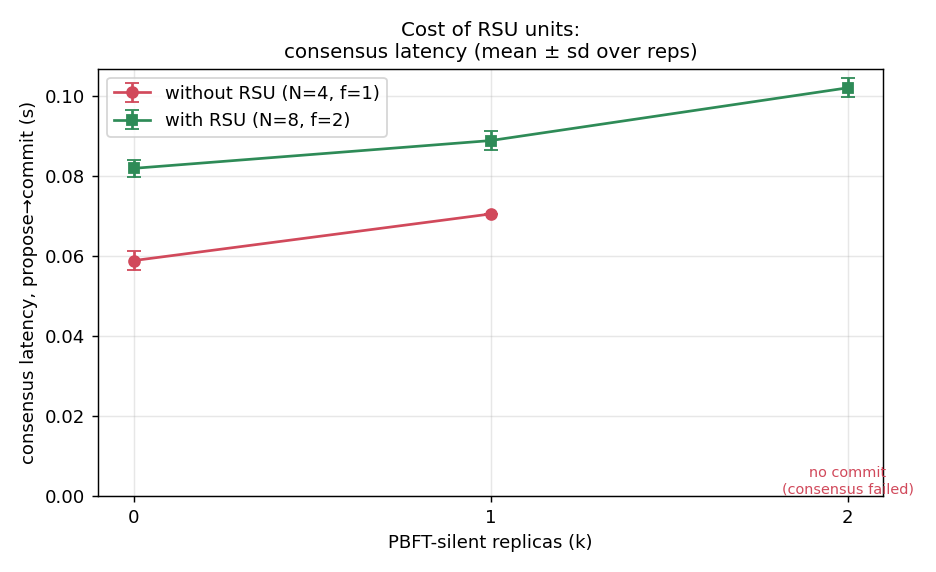
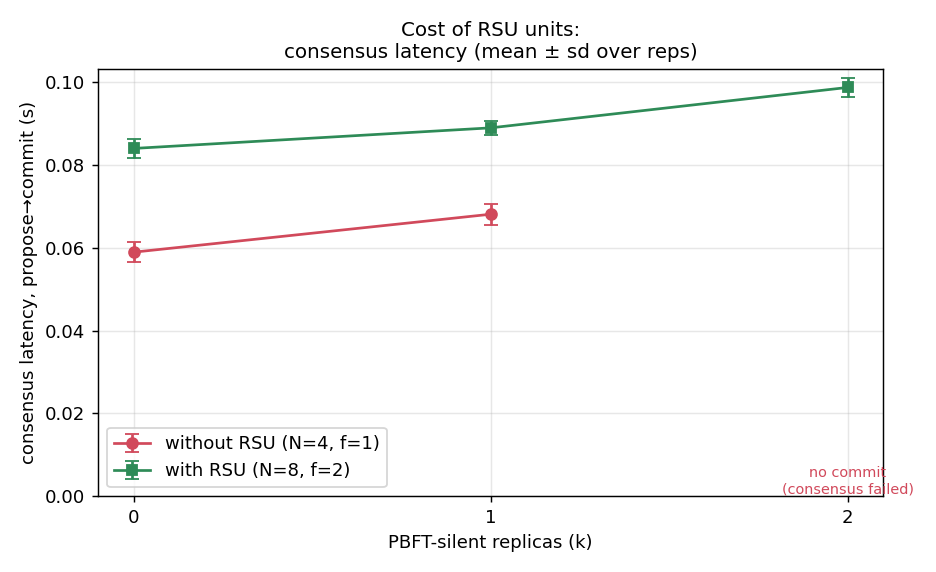
RSU ablation: silent-fault studies replotted with rates; drop invalid INVALID_SIG arm
Re-ran both with/without-RSU studies under pure omission (byzantinePbftSilent)
faults, 3 reps each, and regenerated all figures/reports.

4-vehicle frontier (results/): OFF is intermittent at k=1 (67%), not the clean
pass the old single-rep baseline showed; collapses at k=2. ON holds 100% at
k=0..2. Added a measured echo-source breakdown to the report: with units present
100% of accepted ARRIVAL_ECHOes come from the units (they never quiesce, so they
win the race to f+1 and cert_broadcast_ latches before vehicle echoes land).

18-vehicle fault pressure (results_rollback/): OFF is intermittent at k=4,5
(67%) and collapses cleanly only at k=6 (quorum limit 16-6=10<11); ON holds 100%
through k=6. Report now shows per-cell rep counts (k=1..3 retain 2 reps from the
earlier sweep) and flags that sim-time-limit=25s never took effect, so the
fallback counts are not cross-cell comparable while the commit column is robust.

Corrected run_matrix.sh: the INVALID_SIG (byzantineType=2) "units as witnesses"
arm does NOT work as an experiment. With units present the Byzantine vehicles'
corrupt echoes never enter a certificate (units win the echo race), so nothing is
ever rejected and the attack is not exercised. Documented inline; not reported.

omnetpp.ini: add *Fast variants (5ms bridge poll) for iteration only, not cited.

diff --git a/benchmarks/rsu_ablation/analyze_ablation.py b/benchmarks/rsu_ablation/analyze_ablation.py
@@ -29,11 +29,17 @@ RE_BYTES  = re.compile(r"\[METRICS (\d+)\]\s+Bytes_Sent:\s+(\d+)")
 RE_CLEAR  = re.compile(r"Replica (\d+) cleared intersection")
 RE_CTO    = re.compile(r"\[METRICS (\d+)\]\s+Consensus_Timeout:\s+1")
 RE_STO    = re.compile(r"\[METRICS (\d+)\]\s+StopSign_Timeout:\s+1")
+# Who actually supplies the ARRIVAL_ECHOes that certificates get built from. In the ON
+# config replicas 0-3 are vehicles and 4-7 are the static units, so the split tells us
+# whether units merely help or carry certificate formation outright.
+RE_ECHOSRC = re.compile(r"received echo from (\d+)")
+N_VEHICLES = 4
 
 
 def parse_log(path):
     ordered, sent, recv, byts, cleared, cto, sto = set(), {}, {}, {}, set(), set(), set()
     lat = []
+    echo_veh = echo_unit = 0
     with open(path, errors="ignore") as fh:
         for line in fh:
             m = RE_ORDER.search(line);  ordered.add(int(m.group(1)))         if m else None
@@ -44,8 +50,14 @@ def parse_log(path):
             m = RE_CLEAR.search(line);  cleared.add(int(m.group(1)))         if m else None
             m = RE_CTO.search(line);    cto.add(int(m.group(1)))             if m else None
             m = RE_STO.search(line);    sto.add(int(m.group(1)))             if m else None
+            m = RE_ECHOSRC.search(line)
+            if m:
+                if int(m.group(1)) < N_VEHICLES: echo_veh += 1
+                else:                            echo_unit += 1
     return {
         "committed": 1 if ordered else 0,
+        "echo_veh": echo_veh,
+        "echo_unit": echo_unit,
         "n_ordered": len(ordered),
         "consensus_latency": statistics.mean(lat) if lat else None,
         "msgs_sent": sum(sent.values()),
@@ -123,9 +135,30 @@ def main():
         md.append(f"| {r['k']} | {g(r['off_c'],'{:.0%}')} | {g(r['on_c'],'{:.0%}')} | "
                   f"{g(r['off_l'])} | {g(r['on_l'])} | {g(r['off_m'],'{:.0f}')} | {g(r['on_m'],'{:.0f}')} |")
     md += ["",
-           "**Reading it:** the *frontier* is commit-success vs faults — OFF collapses once "
-           "`k > 1`, ON survives to `k = 2` (the units supply the extra quorum). The *cost* is "
-           "the higher `msgs sent` for ON: the price of the added fault tolerance.\n"]
+           "**Reading it:** the *frontier* is commit-success vs faults — OFF degrades at "
+           "`k = 1` and collapses at `k = 2`, ON survives all three (the units supply the extra "
+           "quorum). The *cost* is the higher `msgs sent` for ON: the price of the added fault "
+           "tolerance. Note OFF's message count *falls* as `k` rises — that is silent replicas "
+           "ceasing to transmit, i.e. the system dying, not efficiency.\n",
+           "## Who supplies the ARRIVAL_ECHOes\n",
+           "Measured from `received echo from <replica>` (replicas 0-3 are vehicles, 4-7 are "
+           "units). This is the certificate layer, not the PBFT quorum:\n",
+           "| k faults | OFF: veh / unit echoes | ON: veh / unit echoes |",
+           "|---|---|---|"]
+    for k in ks:
+        def es(label):
+            recs = runs.get((label, k), [])
+            if not recs: return "n/a"
+            v = statistics.mean(r["echo_veh"] for r in recs)
+            u = statistics.mean(r["echo_unit"] for r in recs)
+            return f"{v:.1f} / {u:.1f}"
+        md.append(f"| {k} | {es('OFF')} | {es('ON')} |")
+    md += ["",
+           "When no units are present, vehicles echo each other and certificates form normally. "
+           "When units are present they win the race to the f+1 echo threshold, `cert_broadcast_` "
+           "latches, and later vehicle echoes are dropped — so units end up carrying certificate "
+           "formation. Consensus still commits either way; this is a property of the echo layer "
+           "worth stating explicitly rather than an error.\n"]
     report = os.path.join(RESULTS, "report.md")
     with open(report, "w") as fh:
         fh.write("\n".join(md))

diff --git a/benchmarks/rsu_ablation/analyze_rollback.py b/benchmarks/rsu_ablation/analyze_rollback.py
@@ -74,6 +74,7 @@ def main():
         print(f"{k:>2} │ OFF {f(offr):>5} (n={offn})  ON {f(onr):>5} (n={onn}) │ "
               f"OFF {f(offf,'{:.1f}'):>5}   ON {f(onf,'{:.1f}'):>5}")
         rows.append(dict(k=k, off=offr, on=onr, offf=offf, onf=onf,
+                         offn=offn, onn=onn,
                          offq=meanf("OFF", k, "quorum"), onq=meanf("ON", k, "quorum")))
 
     md = ["# 18-vehicle fault pressure — consensus availability with/without RSU\n",
@@ -86,11 +87,21 @@ def main():
           "**Metric:** did an epoch-0 ORDER commit at all? If not, vehicles cross via the "
           "stop-sign **timeout fallback** — BFT agreement bypassed, the safety-relevant "
           "degradation this protocol exists to prevent.\n",
-          "| k silent | consensus OFF | consensus ON | fallbacks OFF | fallbacks ON |",
+          "**Caveat on the fallback column:** the intended `sim-time-limit = 25s` does *not* "
+          "actually apply (the generated ini sets it under `[General]`, but the scenario's own "
+          "`[Config ...]` section is more specific and wins), so runs continue to t≈65-77s and "
+          "some are cut off by the wall-clock timeout instead. The **committed** column is "
+          "robust — the outcome is decided by t≈20s, which every run reaches. The **fallback "
+          "count** is not directly comparable across cells, since it keeps accumulating for as "
+          "long as a given run happened to survive.\n",
+          "**Rep counts vary per k** (n shown below): the k=0/4/5/6 cells were re-run with 3 "
+          "reps, while k=1/2/3 retain 2 reps from the earlier sweep of the same script and "
+          "settings. Weight the cells accordingly.\n",
+          "| k silent | consensus OFF (n) | consensus ON (n) | fallbacks OFF | fallbacks ON |",
           "|---|---|---|---|---|"]
     for r in rows:
         g = lambda x, p="{:.0%}": "n/a" if x is None else p.format(x)
-        md.append(f"| {r['k']} | {g(r['off'])} | {g(r['on'])} | "
+        md.append(f"| {r['k']} | {g(r['off'])} ({r['offn']}) | {g(r['on'])} ({r['onn']}) | "
                   f"{g(r['offf'],'{:.1f}')} | {g(r['onf'],'{:.1f}')} |")
     with open(os.path.join(RESULTS, "report_rollback.md"), "w") as fh:
         fh.write("\n".join(md))

diff --git a/benchmarks/rsu_ablation/results/report.md b/benchmarks/rsu_ablation/results/report.md
@@ -6,8 +6,20 @@
 
 | k faults | committed OFF | committed ON | latency OFF (s) | latency ON (s) | msgs OFF | msgs ON |
 |---|---|---|---|---|---|---|
-| 0 | 100% | 100% | 0.06 | 0.08 | 942 | 1193 |
-| 1 | 100% | 100% | 0.07 | 0.09 | 932 | 1162 |
-| 2 | 0% | 100% | n/a | 0.10 | 295 | 1162 |
+| 0 | 100% | 100% | 0.06 | 0.08 | 943 | 1168 |
+| 1 | 67% | 100% | 0.07 | 0.09 | 720 | 1162 |
+| 2 | 0% | 100% | n/a | 0.10 | 295 | 1141 |
 
-**Reading it:** the *frontier* is commit-success vs faults — OFF collapses once `k > 1`, ON survives to `k = 2` (the units supply the extra quorum). The *cost* is the higher `msgs sent` for ON: the price of the added fault tolerance.
+**Reading it:** the *frontier* is commit-success vs faults — OFF degrades at `k = 1` and collapses at `k = 2`, ON survives all three (the units supply the extra quorum). The *cost* is the higher `msgs sent` for ON: the price of the added fault tolerance. Note OFF's message count *falls* as `k` rises — that is silent replicas ceasing to transmit, i.e. the system dying, not efficiency.
+
+## Who supplies the ARRIVAL_ECHOes
+
+Measured from `received echo from <replica>` (replicas 0-3 are vehicles, 4-7 are units). This is the certificate layer, not the PBFT quorum:
+
+| k faults | OFF: veh / unit echoes | ON: veh / unit echoes |
+|---|---|---|
+| 0 | 8.0 / 0.0 | 0.0 / 12.0 |
+| 1 | 10.0 / 0.0 | 0.3 / 11.7 |
+| 2 | 14.0 / 0.0 | 0.0 / 12.0 |
+
+When no units are present, vehicles echo each other and certificates form normally. When units are present they win the race to the f+1 echo threshold, `cert_broadcast_` latches, and later vehicle echoes are dropped — so units end up carrying certificate formation. Consensus still commits either way; this is a property of the echo layer worth stating explicitly rather than an error.

diff --git a/benchmarks/rsu_ablation/results_rollback/report_rollback.md b/benchmarks/rsu_ablation/results_rollback/report_rollback.md
@@ -6,12 +6,16 @@
 
 **Metric:** did an epoch-0 ORDER commit at all? If not, vehicles cross via the stop-sign **timeout fallback** — BFT agreement bypassed, the safety-relevant degradation this protocol exists to prevent.
 
-| k silent | consensus OFF | consensus ON | fallbacks OFF | fallbacks ON |
+**Caveat on the fallback column:** the intended `sim-time-limit = 25s` does *not* actually apply (the generated ini sets it under `[General]`, but the scenario's own `[Config ...]` section is more specific and wins), so runs continue to t≈65-77s and some are cut off by the wall-clock timeout instead. The **committed** column is robust — the outcome is decided by t≈20s, which every run reaches. The **fallback count** is not directly comparable across cells, since it keeps accumulating for as long as a given run happened to survive.
+
+**Rep counts vary per k** (n shown below): the k=0/4/5/6 cells were re-run with 3 reps, while k=1/2/3 retain 2 reps from the earlier sweep of the same script and settings. Weight the cells accordingly.
+
+| k silent | consensus OFF (n) | consensus ON (n) | fallbacks OFF | fallbacks ON |
 |---|---|---|---|---|
-| 0 | 100% | 100% | 0.0 | 0.0 |
-| 1 | 100% | 100% | 0.0 | 0.0 |
-| 2 | 100% | 100% | 0.0 | 0.0 |
-| 3 | 100% | 100% | 0.0 | 0.0 |
-| 4 | 100% | 100% | 0.0 | 0.0 |
-| 5 | 0% | 100% | 8.0 | 0.0 |
-| 6 | 0% | 100% | 16.0 | 0.0 |
+| 0 | 100% (3) | 100% (3) | 0.0 | 0.0 |
+| 1 | 100% (2) | 100% (2) | 0.0 | 0.0 |
+| 2 | 100% (2) | 100% (2) | 0.0 | 0.0 |
+| 3 | 100% (2) | 100% (2) | 0.0 | 0.0 |
+| 4 | 67% (3) | 100% (3) | 3.0 | 0.0 |
+| 5 | 67% (3) | 100% (3) | 5.3 | 0.0 |
+| 6 | 0% (3) | 100% (3) | 16.0 | 0.0 |
